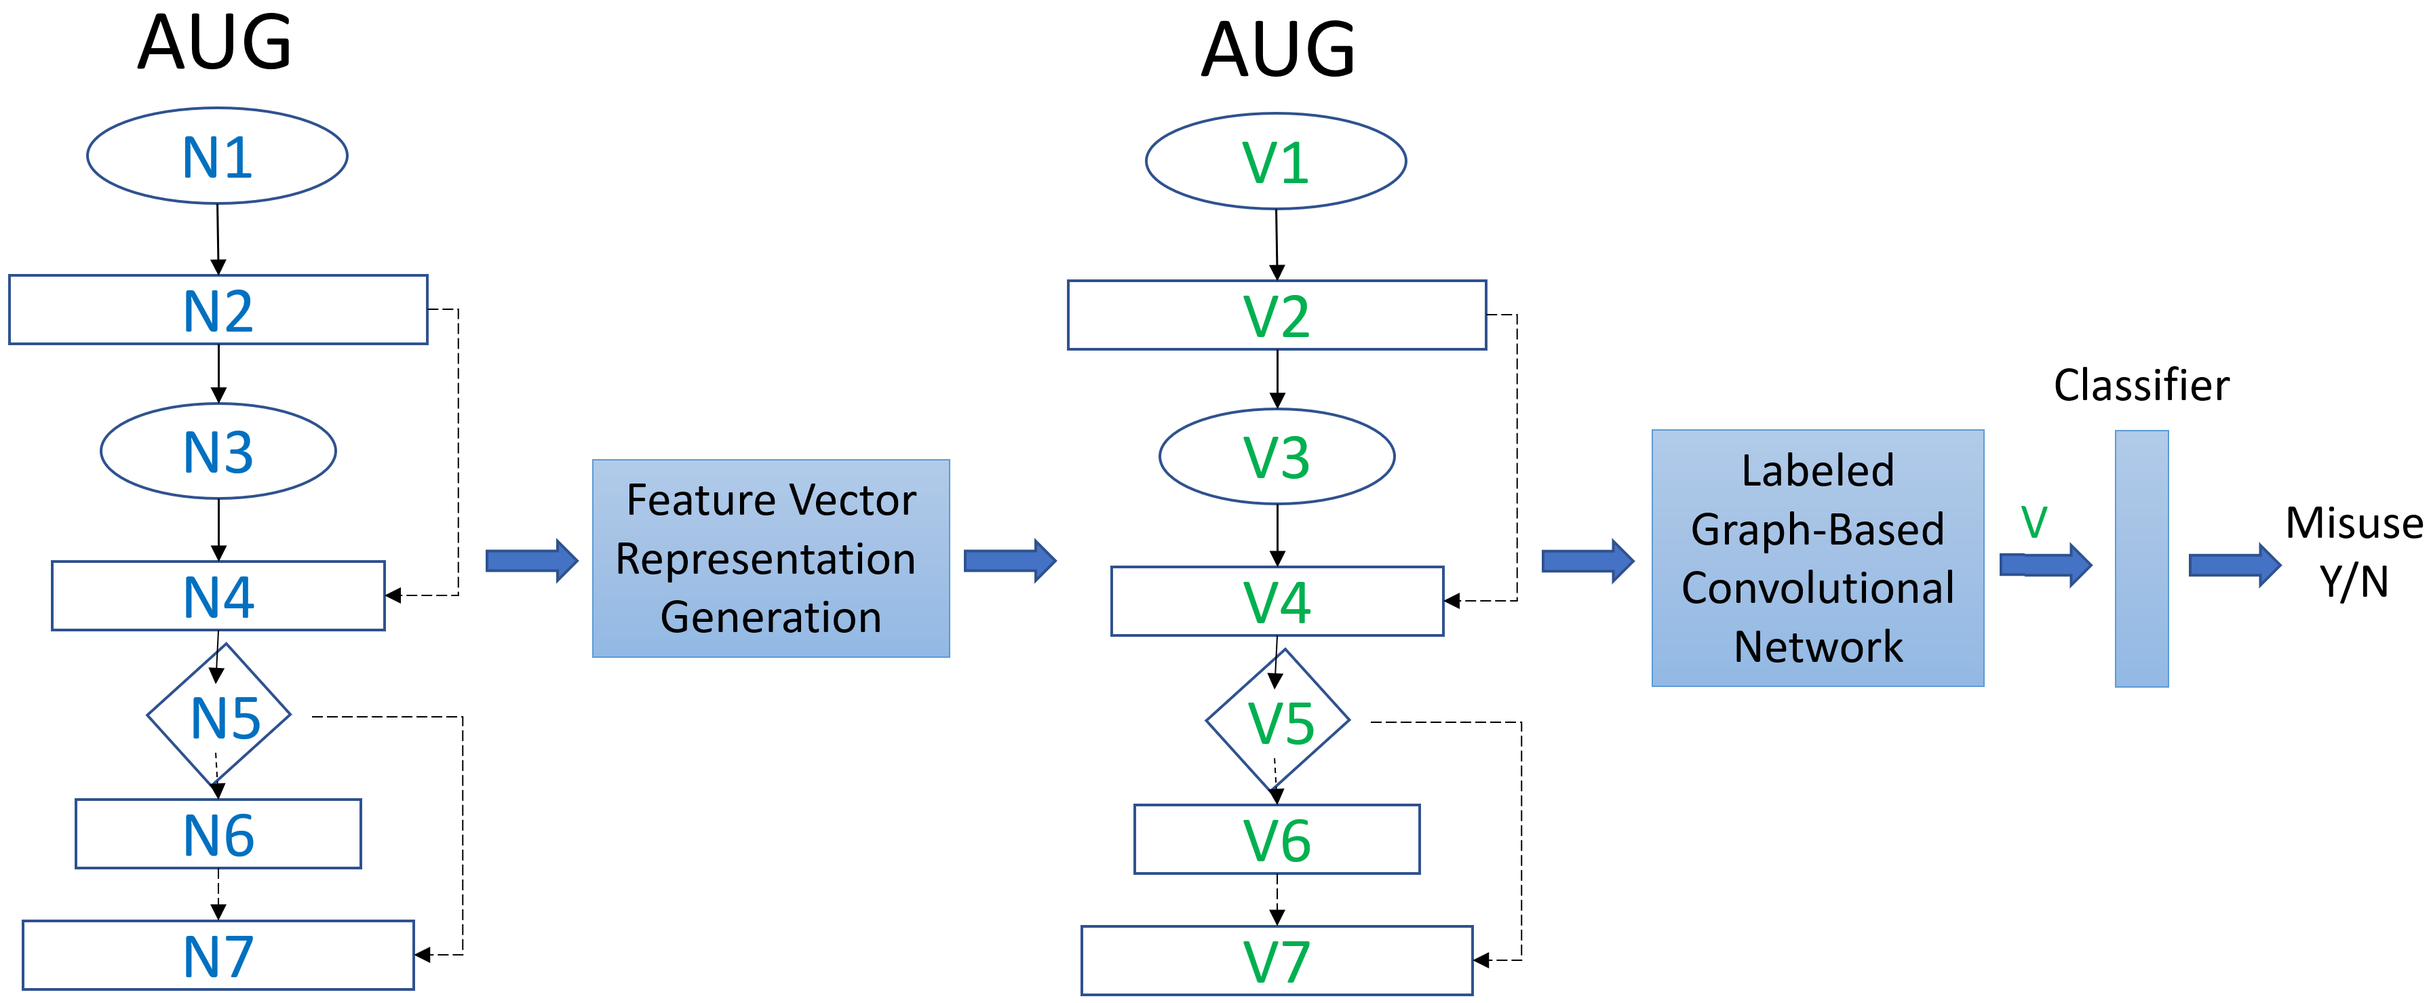
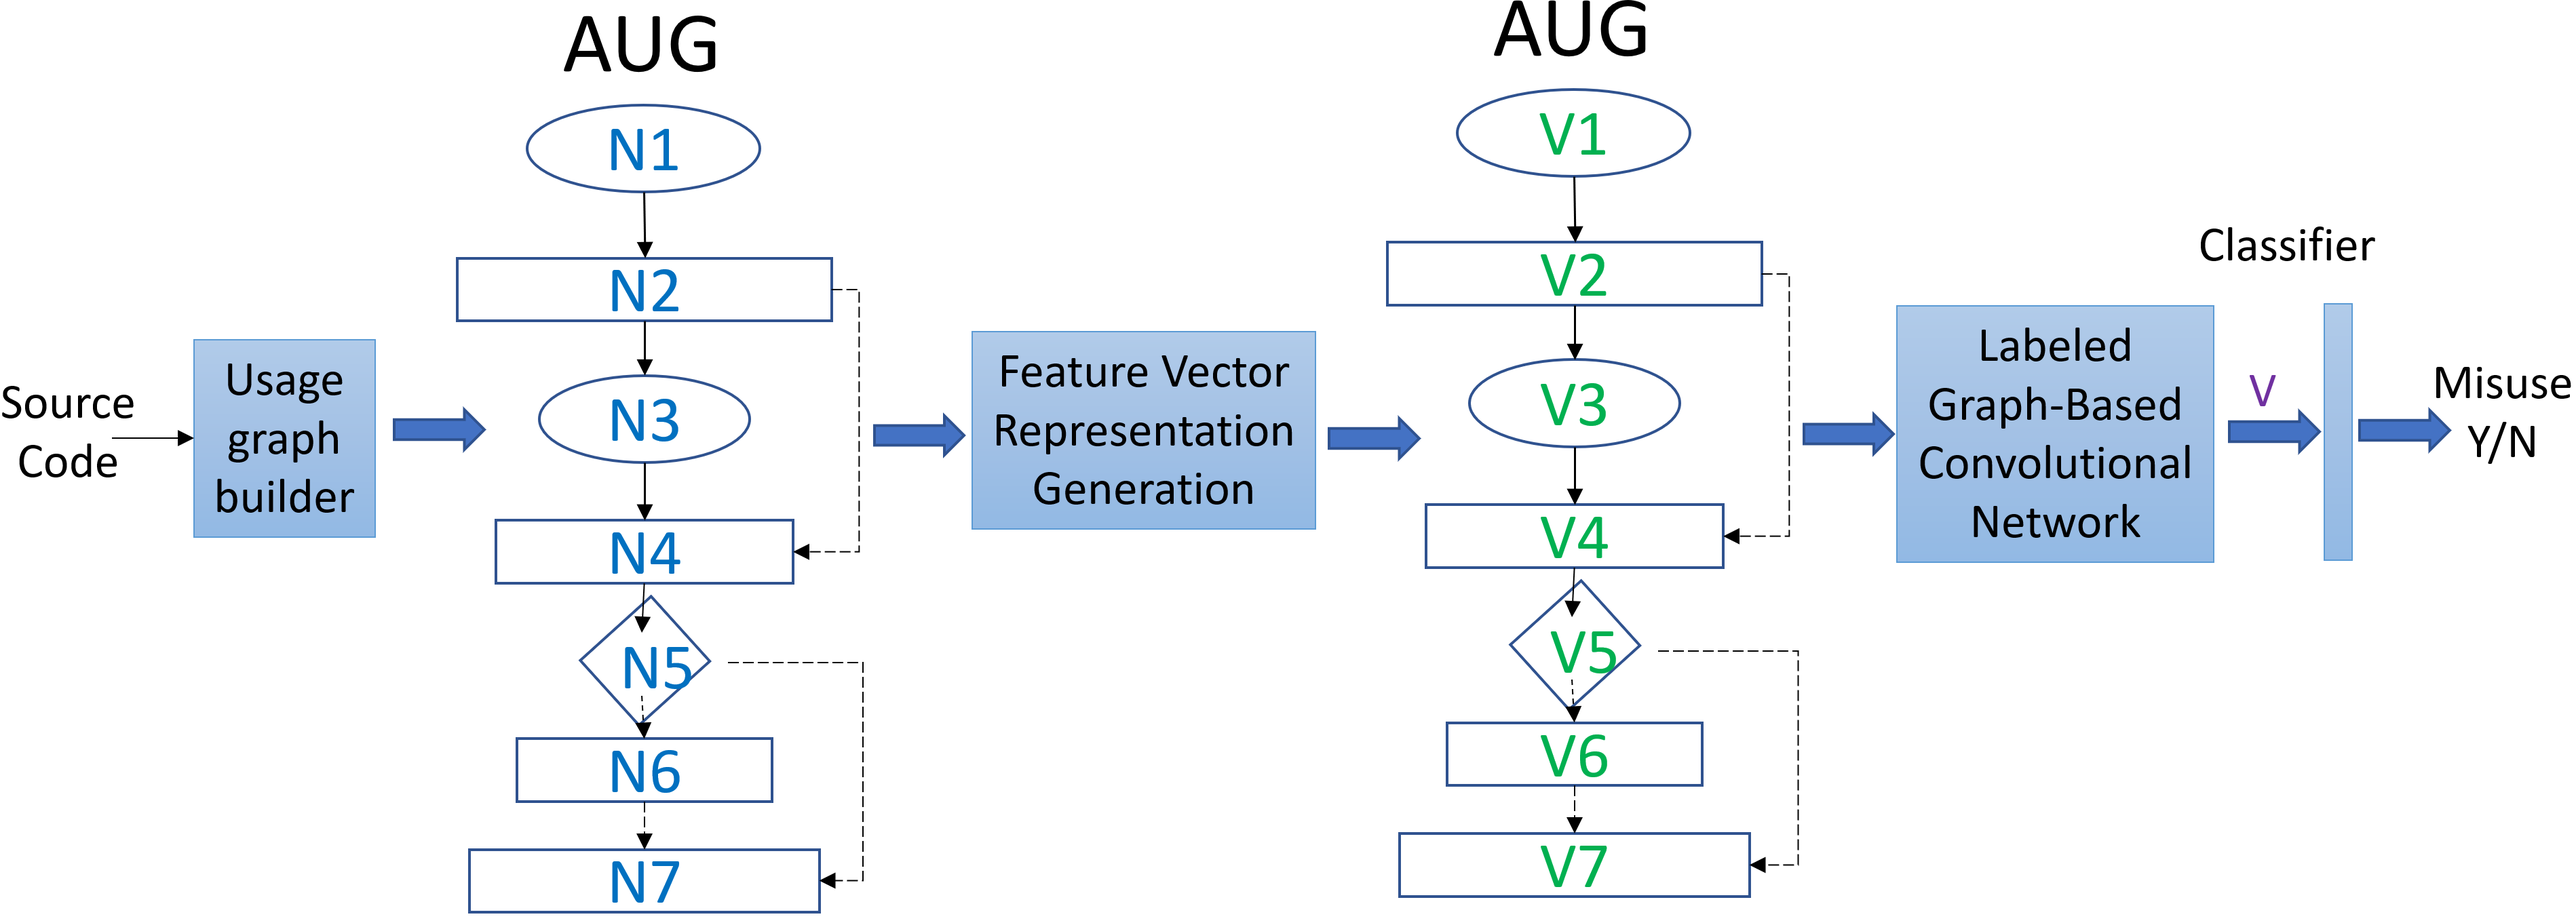
up to Label GCN

diff --git a/overview.tex b/overview.tex
@@ -1,13 +1,43 @@
-\section{Architecture Overview}
+\section{{\tool}: Model Architecture}
 \label{sec:overview}
 
 \begin{figure*}[t]
 \begin{center}
-\includegraphics[width=5.4in]{overview.png}
+\includegraphics[width=5.6in]{overview.png}
 \vspace{-5pt}
 \caption{{\tool}: Architecture Overview}
-\label{overview}
+\label{fig:overview}
 \end{center}
 \end{figure*}
 
-In general, {\tool} has three main components. 
+In general, in addition to data augmentation component, {\tool} has
+two main components (Fig.~\ref{fig:overview}). The first component is
+to generate the usage graphs (AUGs) for all the methods. We use the
+AUG building algorithm described in the original
+paper~\cite{msr19}. The second component is to generate the feature
+vector representations for all the nodes in the AUG. The output of
+this step is the AUG in which the nodes $N_i$s are replaced by their
+vector representations $V_i$s. This graph is then used as the input of
+the third component, a Labeled Graph-based Convolutional Network
+(Label-GCN)~\cite{label-gcn}, which is capable of learning the graph
+structure among the nodes. From the representation vectors for all the
+nodes in the AUG, the Label-GCN model will produce the outputs at the
+output layer. The Label-GCN model connects all of its outputs to a
+fully connected layer to transform the matrix into a vector $V$ for
+the given API usage. This vector $V$ is the contextualized embedding
+representing the given API usage. Our model then performs
+classification by using a softmax function on $V$ to decide if it
+contains an API misuse. In training, we use the labels of the API
+misuses and benign usages.
+
+Our model is also capable of identifying the API elements that were
+misused. For that, in Fig.~\ref{fig:overview}, we do not connect all
+the outputs of the Label-GCN to a fully connected layer. Instead, we
+use the output nodes of the Label-GCN model to represent the decisions
+of misuses or not for the corresponding API elements. In this case,
+for training, we use as labels the misused API elements in each method
+in training data. Then, for each output node of the Label-GCN model,
+we use a softmax function to classify the node (i.e., the API element)
+as misuse or not. For clarity, we do not show this case in
+Fig.~\ref{fig:overview}.
+

diff --git a/key-ideas.tex b/key-ideas.tex
@@ -27,16 +27,17 @@ number of correct API usages, one would face the issue of highly
 unbalanced data. To enable our deep-learning-based solution, we have
 utilized a few technique for data augmentation to increase the numbers
 of API misuses for model training
-(Section~\ref{sec:data-augmentation}).
+(Section~\ref{sec:data-aug}).
 \end{key-idea}
 
-\begin{key-idea}[Graph-based Neural Network Model for API Usage Representation Learning]
-We design a graph-based, representation learning model to {\em learn
-  the contextualized embeddings for API Usages} that integrates {\em
-  data and control dependencies}, and control structures among API and
-program elements. We train a Graph-based Convolution
-Network~\cite{gcn} to learn the embeddings for API usages from a
-graph-based API usage representation, called API Usage Graph
-(AUG)~\cite{msr19}. The embeddings will capture the key features
-in API usages and be used for API misuse detection.
+\begin{key-idea}[Graph-based Neural Network Model for API Usage
+Representation Learning] We leverage a graph-based, representation
+  learning model to {\em learn the contextualized embeddings for API
+    Usages} that integrates {\em data and control dependencies}, and
+  control structures among API and program elements. We train a
+  Labelled Graph-based Convolution Network~\cite{label-gcn} to learn
+  the embeddings for API usages from a graph-based API usage
+  representation, called API Usage Graph (AUG)~\cite{msr19}. The
+  embeddings will capture the key features in API usages and be used
+  for API misuse detection.
 \end{key-idea}

diff --git a/features.tex b/features.tex
@@ -1,0 +1,10 @@
+\subsection{Code Feature Representation Learning}
+\label{sec:features}
+
+An API element at a node in the AUG built from a method is represented
+via a sequence of the sub-tokens. The sub-token granularity for source
+code has been shown to have higher regularity than the token
+level~\cite{icse20-methodname}. Each name of an API element at a node
+is tokenized using CamelCase or Hungarian convention. Then, only
+variables, methods, fields, and class' names are kept. The sub-tokens
+with one character are removed to avoid noises.

diff --git a/ase23.tex b/ase23.tex
@@ -166,6 +166,8 @@ Abstract goes here.
 
 \input{overview}
 
+\input{features}
+
 %\input{eval}
 
 %\input{empirical-results}
